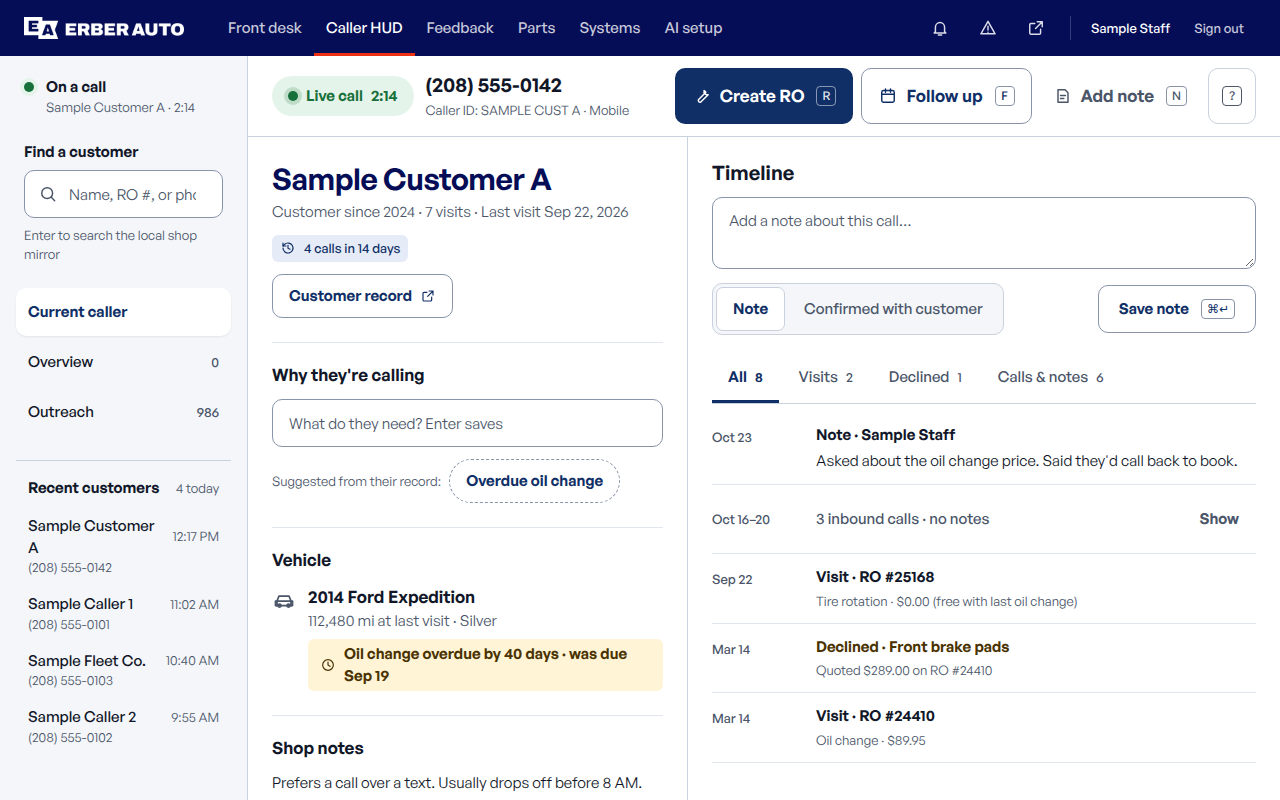
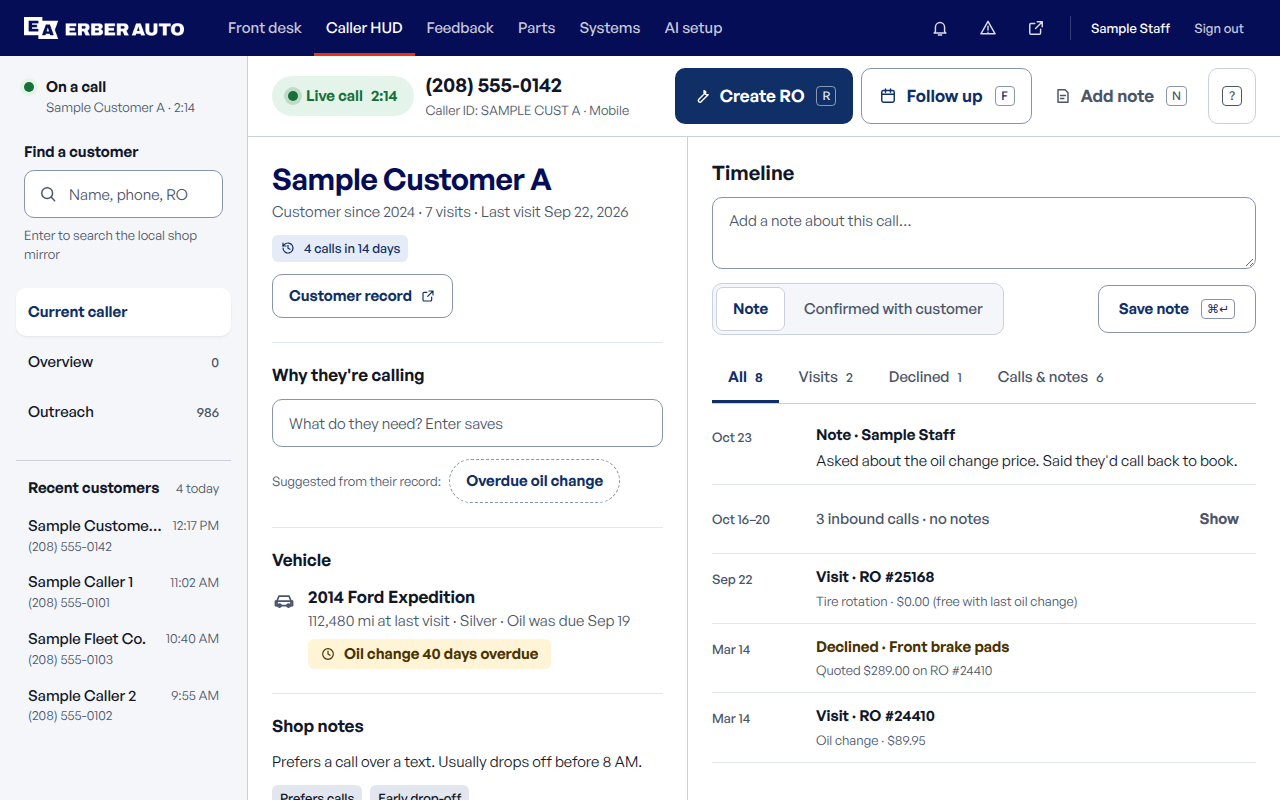
Caller HUD hill-climb round 9: 1280 fit pass

diff --git a/caller-hud-review/mockup.html b/caller-hud-review/mockup.html
@@ -74,7 +74,7 @@
       <label for="q">Find a customer</label>
       <div class="search-row">
         <svg class="ico" aria-hidden="true"><use href="#i-search"/></svg>
-        <input id="q" type="search" placeholder="Name, RO #, or phone" autocomplete="off" enterkeyhint="search">
+        <input id="q" type="search" placeholder="Name, phone, RO" autocomplete="off" enterkeyhint="search">
       </div>
       <p class="hint">Enter to search the local shop mirror</p>
     </form>
@@ -167,8 +167,8 @@
             <svg class="ico veh-ico" aria-hidden="true"><use href="#i-car"/></svg>
             <div>
               <p class="veh-name">2014 Ford Expedition</p>
-              <p class="veh-meta">112,480 mi at last visit · Silver</p>
-              <p class="veh-due"><svg class="ico ico-sm" aria-hidden="true"><use href="#i-clock"/></svg>Oil change overdue by 40 days · was due Sep 19</p>
+              <p class="veh-meta">112,480 mi at last visit · Silver · Oil was due Sep 19</p>
+              <p class="veh-due"><svg class="ico ico-sm" aria-hidden="true"><use href="#i-clock"/></svg>Oil change 40 days overdue</p>
             </div>
           </div>
           <div class="vehicle vehicle-none" data-only="empty">

diff --git a/caller-hud-review/hud.css b/caller-hud-review/hud.css
@@ -154,6 +154,8 @@
   .call-actions .btn-lg { padding: 0 var(--space-4); }
   .call-actions .btn-ghost { padding: 0 var(--space-3); }
   .keys-btn { width: var(--tap-min); }
+  .recent a { grid-template-columns: minmax(0, 1fr) auto; }
+  .r-name { white-space: nowrap; overflow: hidden; text-overflow: ellipsis; }
   .cust, .tl { padding-left: var(--space-6); padding-right: var(--space-6); }
 }
 @media (max-width: 1023px) {
